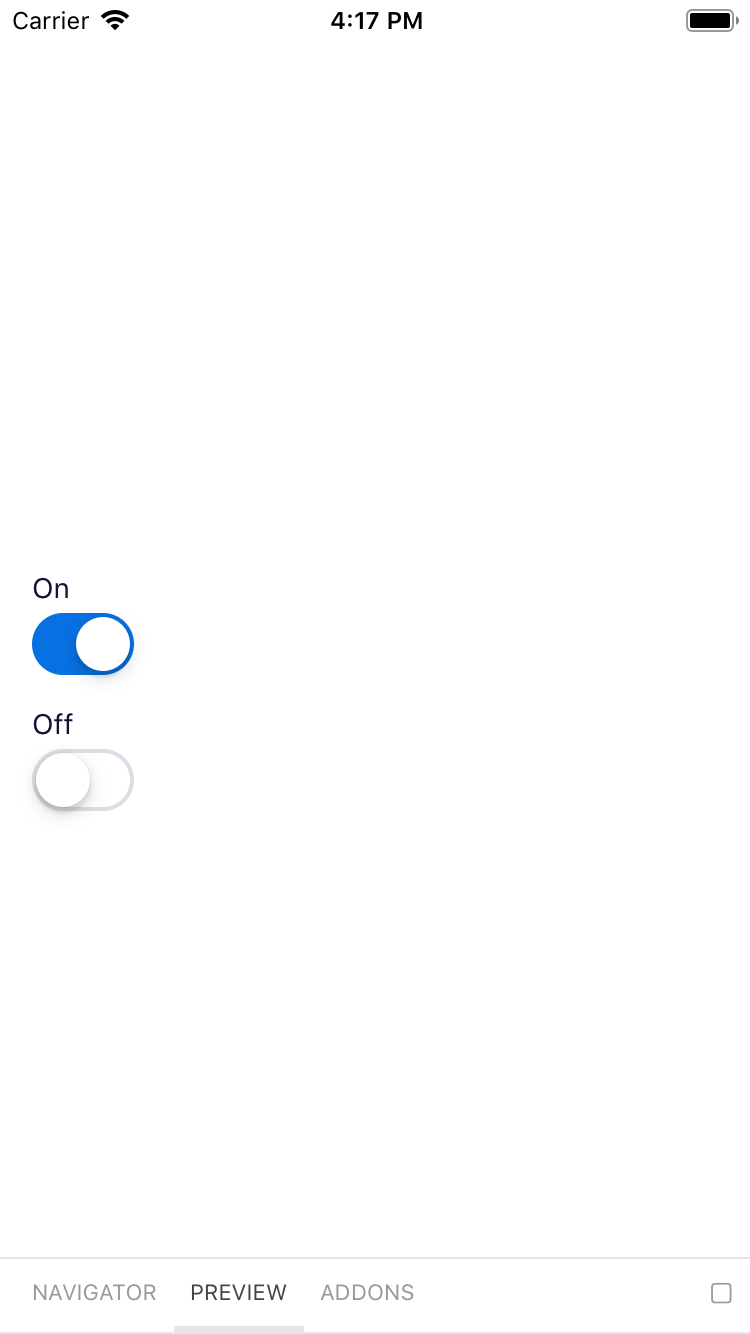
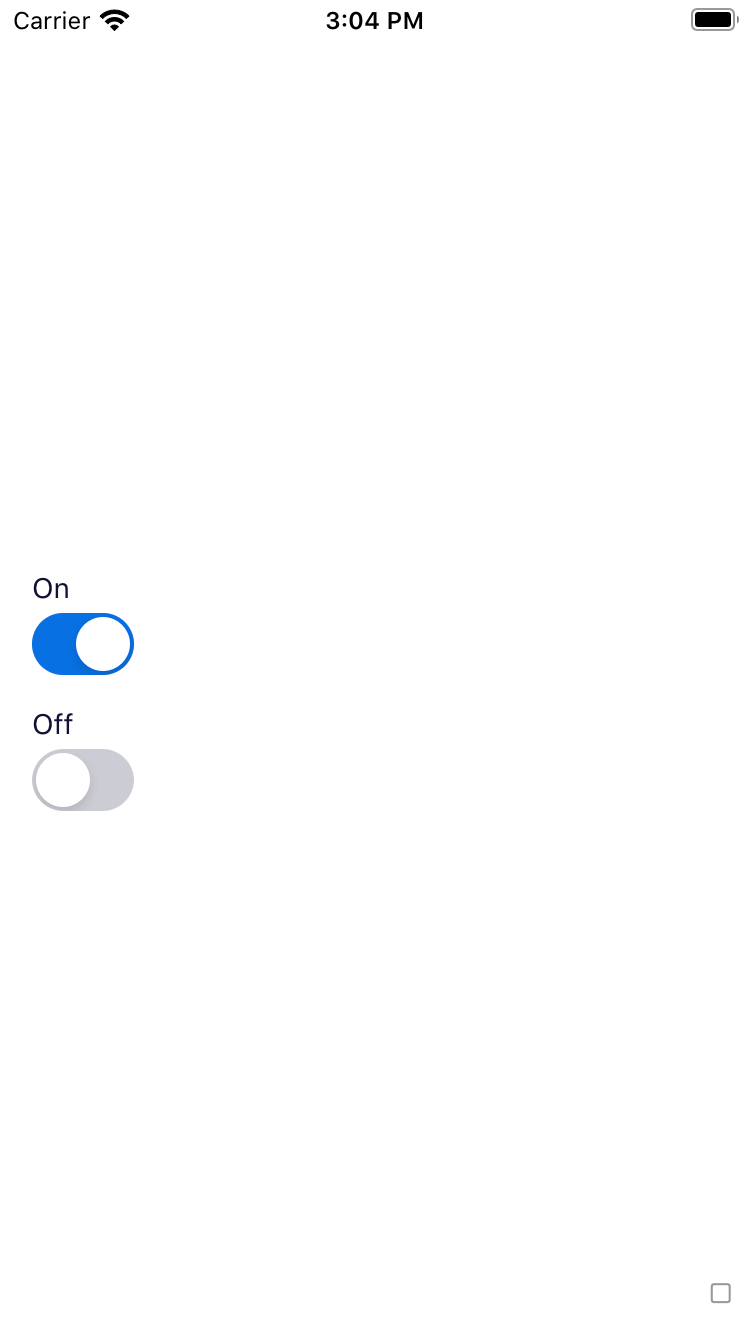
[BPK-3245] Add dark mode for BpkSwitch and fix 'off' colour on iOS (#306)
* [BPK-3245] Add dark mode for BpkSwitch and fix 'off' colour on iOS

* [squash] Fix issue with deps

* [squash] PR feedback

diff --git a/packages/react-native-bpk-component-switch/src/BpkSwitch-test.common.js b/packages/react-native-bpk-component-switch/src/BpkSwitch-test.common.js
@@ -21,48 +21,52 @@
 import React from 'react';
 import renderer from 'react-test-renderer';
 import BpkThemeProvider from 'react-native-bpk-theming';
+import { describeEachColorScheme } from 'react-native-bpk-test-utils';
 
 import BpkSwitch from './BpkSwitch';
 
 const commonTests = () => {
   describe('BpkSwitch', () => {
-    // Currently necessary because of https://github.com/facebook/react-native/issues/16247
-    jest.spyOn(console, 'error').mockImplementation(() => jest.fn());
-    it('should render correctly', () => {
-      const tree = renderer.create(<BpkSwitch />).toJSON();
-      expect(tree).toMatchSnapshot();
-    });
+    describeEachColorScheme(BpkSwitch, WithColorScheme => {
+      // Currently necessary because of https://github.com/facebook/react-native/issues/16247
+      jest.spyOn(console, 'error').mockImplementation(() => jest.fn());
+      it('should render correctly', () => {
+        const tree = renderer.create(<WithColorScheme />).toJSON();
+        expect(tree).toMatchSnapshot();
+      });
 
-    it('should support the "value" prop', () => {
-      const tree = renderer.create(<BpkSwitch value />).toJSON();
-      expect(tree).toMatchSnapshot();
-    });
+      it('should support the "value" prop', () => {
+        const tree = renderer.create(<WithColorScheme value />).toJSON();
+        expect(tree).toMatchSnapshot();
+      });
 
-    it('should support theming', () => {
-      const theme = {
-        switchPrimaryColor: 'red',
-      };
-      const tree = renderer
-        .create(
-          <BpkThemeProvider theme={theme}>
-            <BpkSwitch value />
-          </BpkThemeProvider>,
-        )
-        .toJSON();
-      expect(tree).toMatchSnapshot();
-    });
+      it('should support theming', () => {
+        const theme = {
+          switchPrimaryColor: 'red',
+        };
+        const tree = renderer
+          .create(
+            <BpkThemeProvider theme={theme}>
+              <WithColorScheme value />
+            </BpkThemeProvider>,
+          )
+          .toJSON();
+        expect(tree).toMatchSnapshot();
+      });
 
-    it('should disable theming if the required attribute is omitted', () => {
-      const theme = {};
-      const tree = renderer
-        .create(
-          <BpkThemeProvider theme={theme}>
-            <BpkSwitch value />
-          </BpkThemeProvider>,
-        )
-        .toJSON();
-      expect(tree).toMatchSnapshot();
+      it('should disable theming if the required attribute is omitted', () => {
+        const theme = {};
+        const tree = renderer
+          .create(
+            <BpkThemeProvider theme={theme}>
+              <WithColorScheme value />
+            </BpkThemeProvider>,
+          )
+          .toJSON();
+        expect(tree).toMatchSnapshot();
+      });
     });
   });
 };
+
 export default commonTests;

diff --git a/packages/react-native-bpk-component-switch/src/BpkSwitch.js b/packages/react-native-bpk-component-switch/src/BpkSwitch.js
@@ -28,14 +28,16 @@ import {
 } from 'react-native-bpk-theming';
 import {
   colorSkyBlue,
+  colorBlackTint01,
   colorSkyGrayTint06,
   colorSkyGrayTint07,
 } from 'bpk-tokens/tokens/base.react.native';
+import { useBpkDynamicValue } from 'react-native-bpk-appearance';
 import { setOpacity } from 'bpk-tokens';
 
 const REQUIRED_THEME_ATTRIBUTES = ['switchPrimaryColor'];
 
-const getColors = (themeAttributes: ?Object, value: ?boolean): Object => {
+const useColors = (themeAttributes: ?Object, value: ?boolean): Object => {
   const primaryColor = themeAttributes
     ? themeAttributes.switchPrimaryColor
     : colorSkyBlue;
@@ -43,8 +45,11 @@ const getColors = (themeAttributes: ?Object, value: ?boolean): Object => {
   // The color props mean different things based on the platform.
   const colors = Platform.select({
     ios: {
+      ios_backgroundColor: useBpkDynamicValue({
+        light: colorSkyGrayTint06,
+        dark: colorBlackTint01,
+      }),
       trackColor: {
-        false: colorSkyGrayTint06,
         true: primaryColor,
       },
     },
@@ -69,7 +74,7 @@ const BpkSwitch = (props: Props) => {
   const themeAttributes = getThemeAttributes(REQUIRED_THEME_ATTRIBUTES, theme);
 
   return (
-    <Switch {...getColors(themeAttributes, value)} value={value} {...rest} />
+    <Switch {...useColors(themeAttributes, value)} value={value} {...rest} />
   );
 };
 

diff --git a/UNRELEASED.md b/UNRELEASED.md
@@ -11,6 +11,9 @@
 - react-native-bpk-component-picker:
   - Changed the overlay/scrim colour on Android to match the underlying platform instead of using a colour token from Backpack.
 
+- react-native-bpk-component-switch:
+  - Fixed the 'off' colour on iOS to use `skyGreyTint06`.
+
 **Added:**
 
 - react-native-bpk-component-progress:
@@ -29,6 +32,9 @@
   - Added dark mode support.
 
 - react-native-bpk-component-select:
+  - Added dark mode support.
+
+- react-native-bpk-component-switch:
   - Added dark mode support.
 
 ## How to write a good changelog entry
